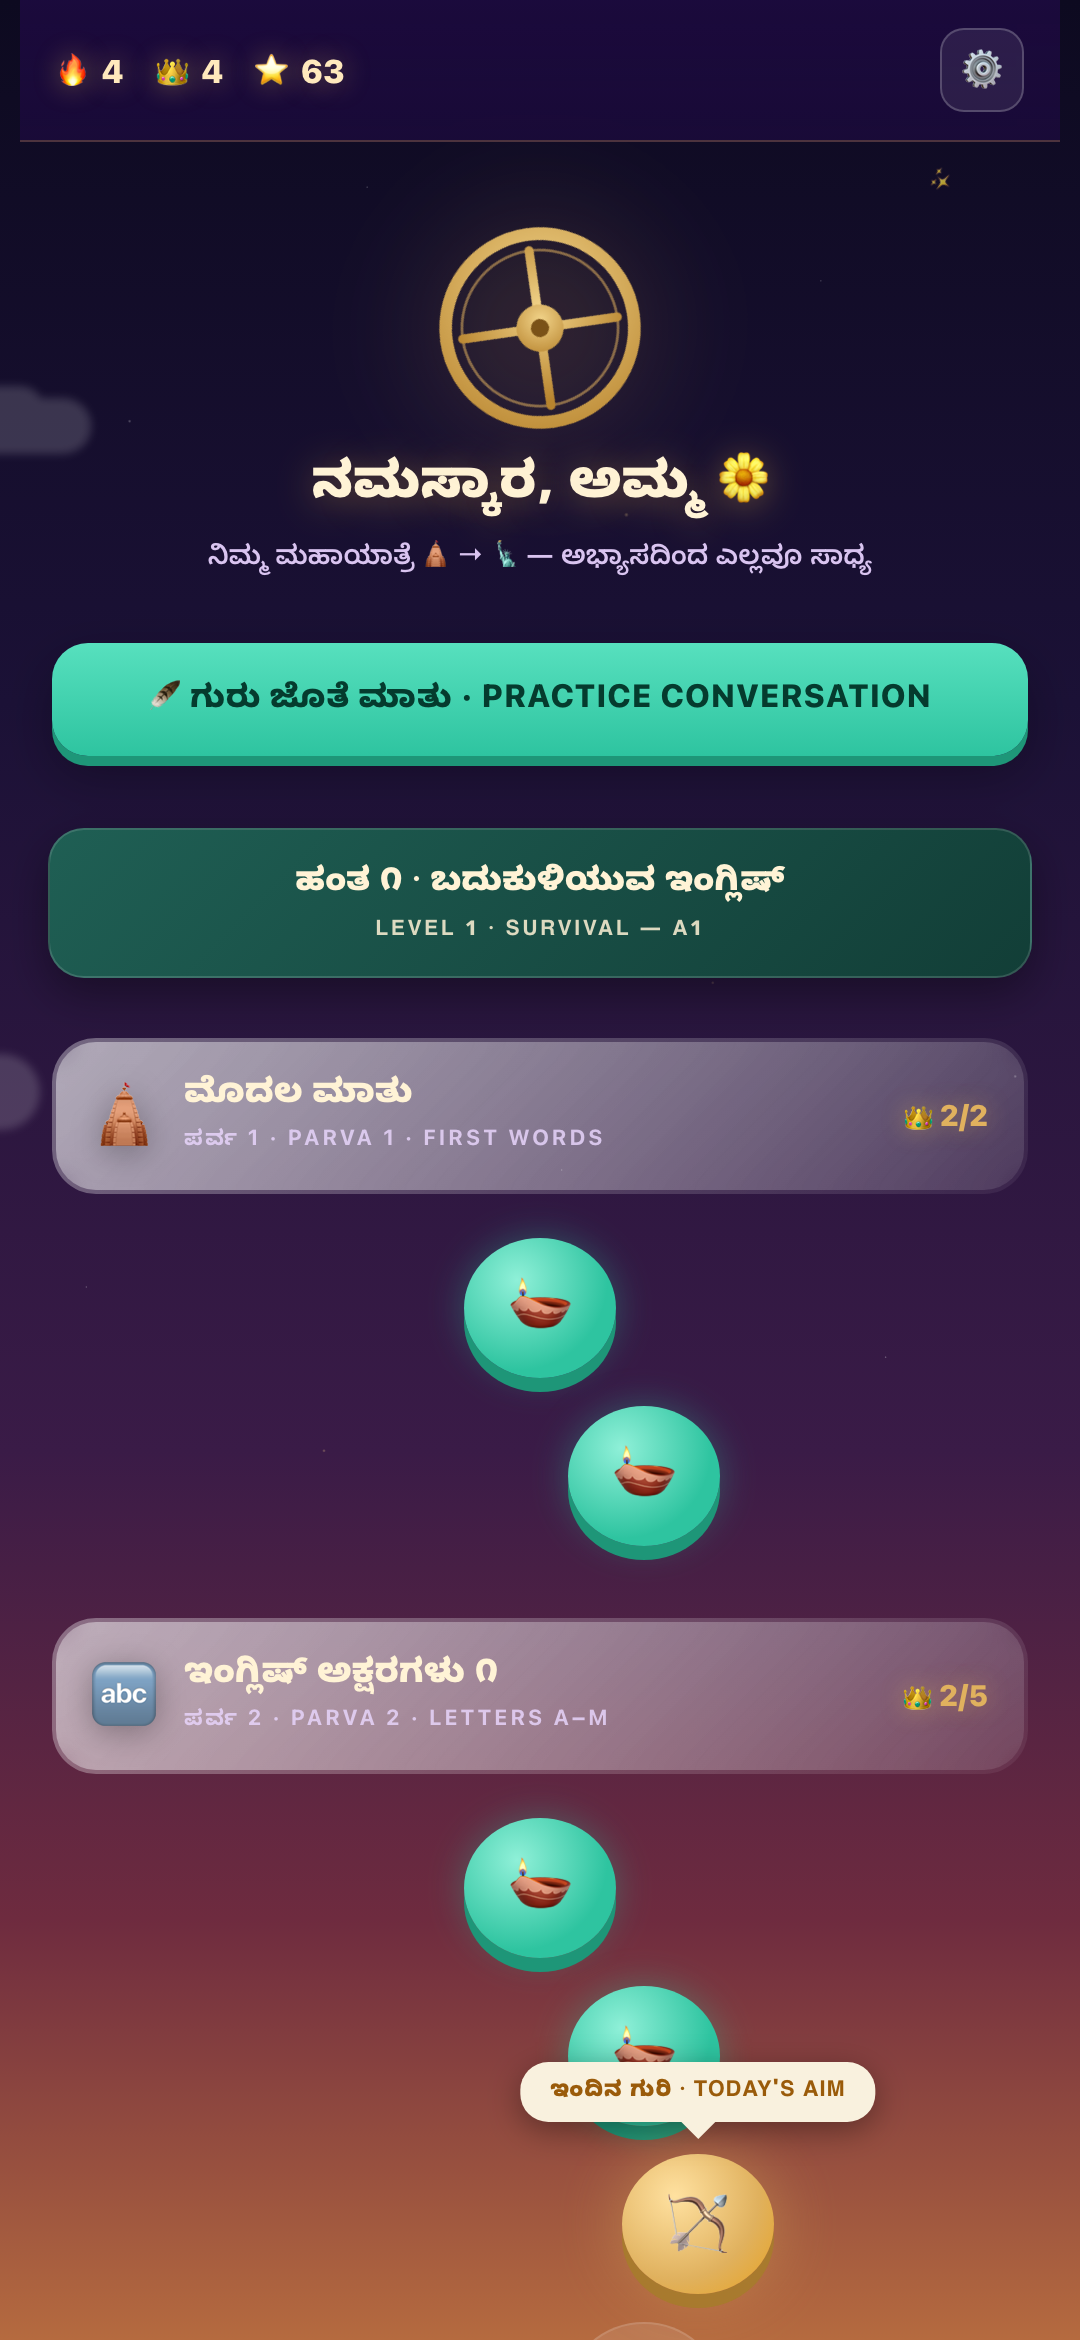
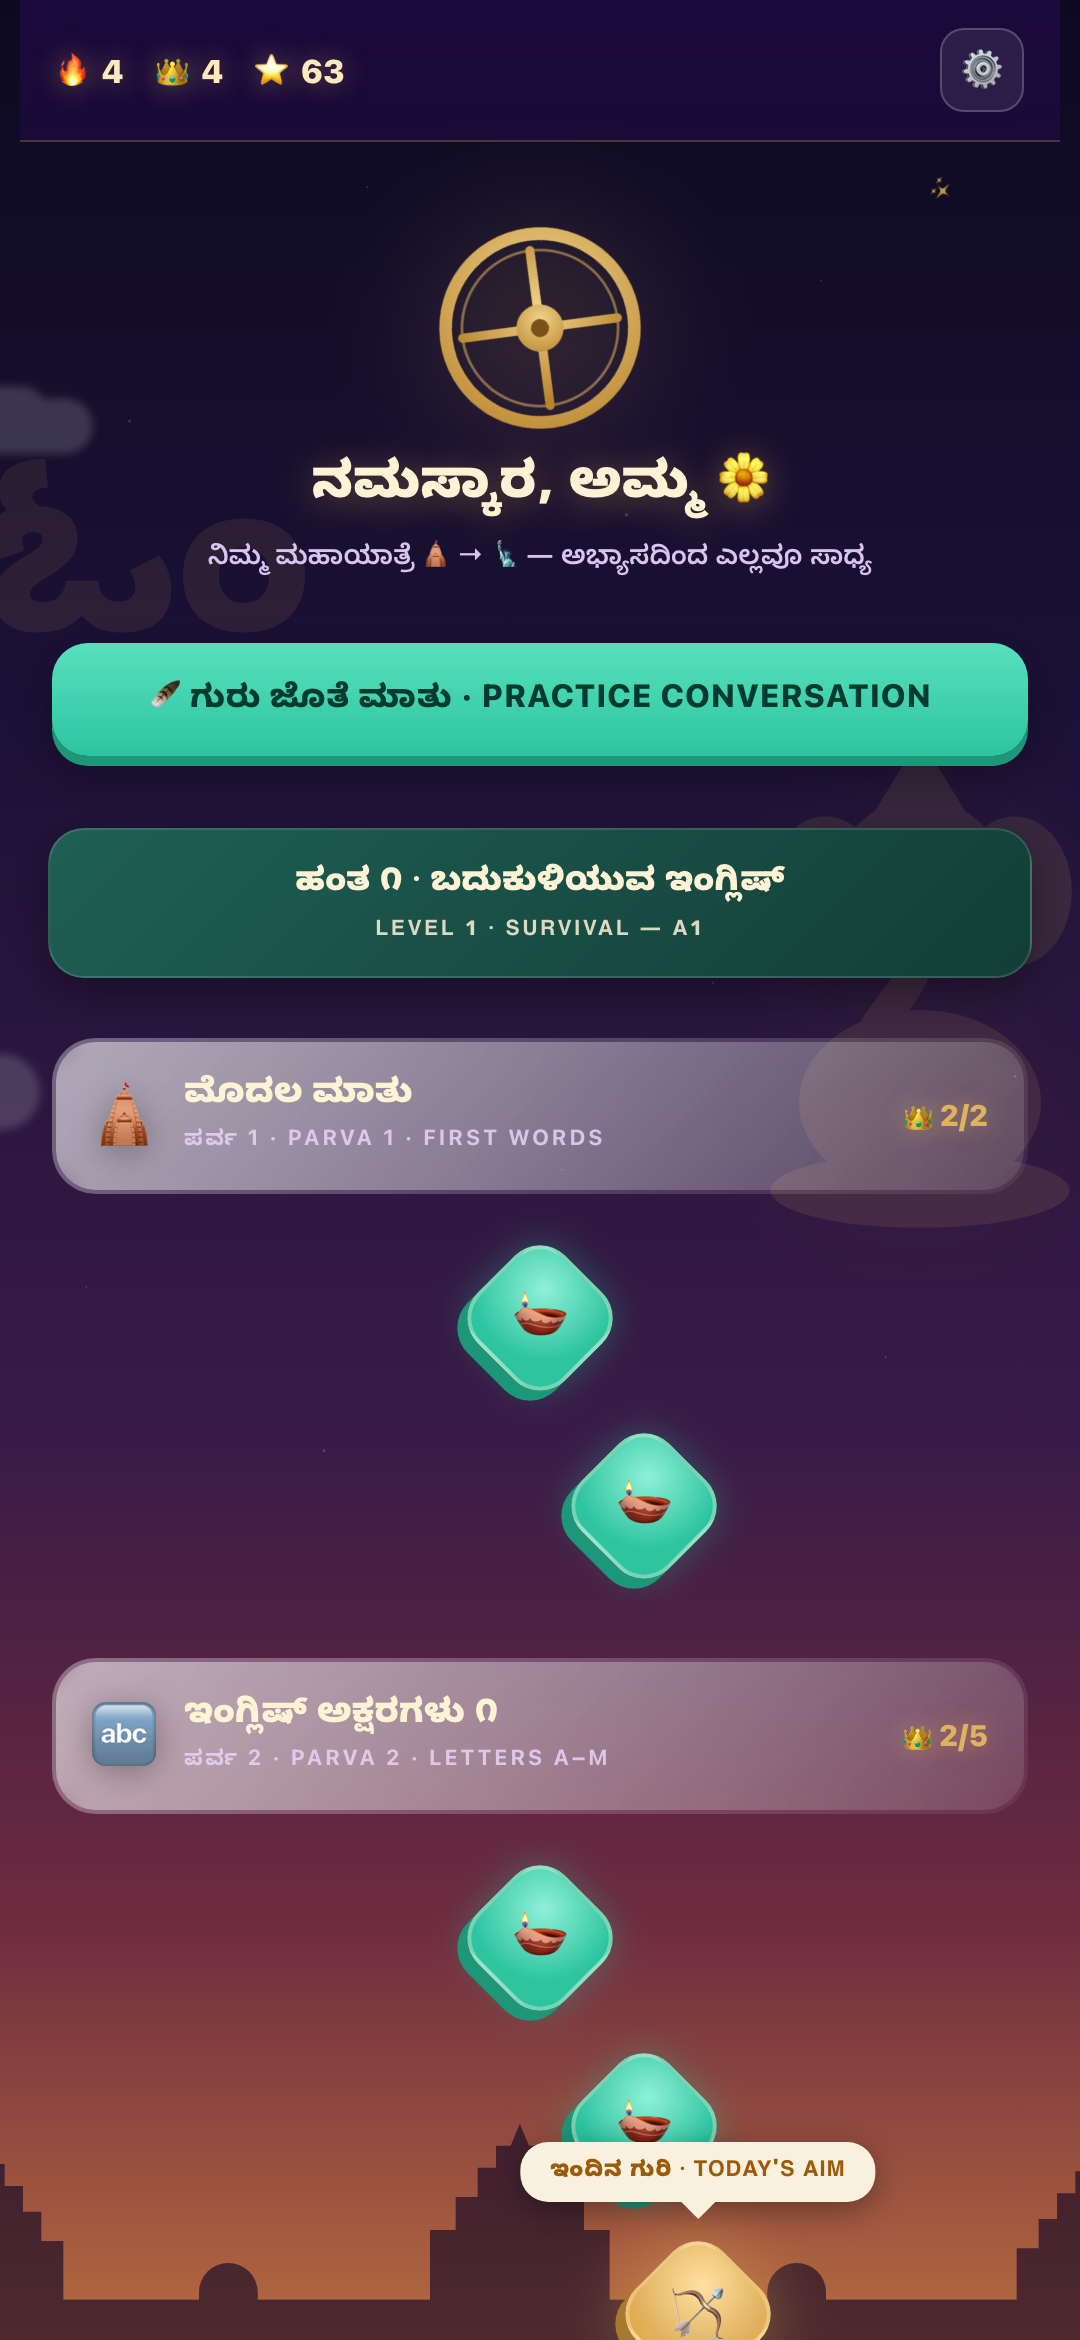
v10: de-Duolingo redesign — temple-tile diamond lesson medallions; sacred background art (ಓಂ, Ganesha silhouette, gopuram skyline); refreshed store map screenshot

Changed region(s): [[0.0, 0.5303, 1.0, 1.0]]

diff --git a/index.html b/index.html
@@ -66,6 +66,9 @@
     0%{transform:translateY(-4vh) rotate(0deg)}
     100%{transform:translateY(108vh) rotate(340deg)}
   }
+  .bg-om{position:fixed;left:-16px;top:17%;width:170px;opacity:.09;z-index:0;pointer-events:none}
+  .bg-ganesha{position:fixed;right:-30px;top:30%;width:220px;opacity:.12;z-index:0;pointer-events:none;filter:drop-shadow(0 0 30px rgba(224,177,94,.25))}
+  .bg-gopuram{position:fixed;bottom:0;left:0;width:100%;height:110px;opacity:.65;z-index:0;pointer-events:none}
   @media (prefers-reduced-motion:reduce){
     .stars,.stars2,.petal,.cloud,.node .bubble,.mascot{animation:none!important}
     *{transition:none!important}
@@ -114,13 +117,15 @@
 
   .nodes{display:flex;flex-direction:column;align-items:center;gap:14px;padding:18px 0 6px;position:relative}
   .node{position:relative;display:flex;flex-direction:column;align-items:center}
-  .node .bubble{width:76px;height:70px;border-radius:50%;display:grid;place-items:center;font-size:1.9rem;border:none;color:#fff;position:relative}
+  .node .bubble{width:62px;height:62px;border-radius:18px;transform:rotate(45deg);display:grid;place-items:center;
+    font-size:1.65rem;border:2px solid rgba(255,243,214,.35);color:#fff;position:relative;margin:9px}
+  .node .bubble .ico{transform:rotate(-45deg);display:block}
   .node.active .bubble{background:radial-gradient(circle at 35% 30%,#FFE1A0,var(--gold) 60%,#E8A21F);
     box-shadow:0 7px 0 var(--gold-d),0 0 34px var(--gold-glow);animation:lantern 2.2s ease-in-out infinite}
   @keyframes lantern{0%,100%{box-shadow:0 7px 0 var(--gold-d),0 0 22px var(--gold-glow)}50%{box-shadow:0 7px 0 var(--gold-d),0 0 44px var(--gold-glow)}}
   .node.done .bubble{background:radial-gradient(circle at 35% 30%,#8FF0D8,var(--jade) 65%);box-shadow:0 7px 0 var(--jade-d),0 0 18px rgba(46,196,160,.35)}
   .node.locked .bubble{background:rgba(255,255,255,.1);box-shadow:0 7px 0 rgba(0,0,0,.28);color:rgba(255,255,255,.4);border:1px solid rgba(255,255,255,.12)}
-  .node .bubble:active{transform:translateY(4px)}
+  .node .bubble:active{transform:rotate(45deg) translateY(4px)}
   .nodes .node:nth-child(6n+2){margin-left:104px}
   .nodes .node:nth-child(6n+3){margin-left:158px}
   .nodes .node:nth-child(6n+4){margin-left:104px}
@@ -264,6 +269,31 @@
 <div class="cloud c1"><b></b><b></b><b></b></div>
 <div class="cloud c2"><b></b><b></b><b></b></div>
 <span class="petal">🌼</span><span class="petal">🌸</span><span class="petal">🌼</span><span class="petal">✨</span>
+
+<svg class="bg-om" viewBox="0 0 220 200" aria-hidden="true"><text x="10" y="150" font-size="140" font-weight="800" fill="#E0B15E">ಓಂ</text></svg>
+
+<svg class="bg-ganesha" viewBox="0 0 200 250" aria-hidden="true">
+  <g fill="#E0B15E">
+    <path d="M78,52 L100,16 L122,52 Z"/>
+    <ellipse cx="57" cy="86" rx="26" ry="34"/>
+    <ellipse cx="143" cy="86" rx="26" ry="34"/>
+    <circle cx="100" cy="84" r="40"/>
+    <path d="M100,112 C95,138 76,142 78,160 C80,176 100,176 103,163 C105,154 96,152 94,158" fill="none" stroke="#E0B15E" stroke-width="15" stroke-linecap="round"/>
+    <ellipse cx="100" cy="182" rx="55" ry="42"/>
+    <ellipse cx="100" cy="222" rx="68" ry="17"/>
+  </g>
+</svg>
+
+<svg class="bg-gopuram" viewBox="0 0 800 120" preserveAspectRatio="xMidYMax slice" aria-hidden="true">
+  <g fill="#140825">
+    <path d="M40,120 V66 h12 V50 h10 V36 h10 V24 h8 V14 h6 l4,-10 4,10 h6 V24 h8 V36 h10 V50 h10 V66 h12 V120 Z"/>
+    <path d="M340,120 V60 h14 V42 h12 V26 h10 V14 h8 l5,-12 5,12 h8 V26 h10 V42 h12 V60 h14 V120 Z"/>
+    <path d="M660,120 V70 h12 V54 h10 V40 h10 V28 h8 V18 h6 l4,-10 4,10 h6 V28 h8 V40 h10 V54 h10 V70 h12 V120 Z"/>
+    <rect x="0" y="98" width="800" height="22"/>
+    <circle cx="230" cy="94" r="16"/><rect x="214" y="94" width="32" height="26"/>
+    <circle cx="540" cy="94" r="16"/><rect x="524" y="94" width="32" height="26"/>
+  </g>
+</svg>
 
 <div class="app">
   <div class="hud">
@@ -855,7 +885,7 @@
         var ico=isDone?"🪔":(unlocked?"🏹":"🔒");
         var pop=(unlocked&&!isDone)?'<div class="startpop kn">ಇಂದಿನ ಗುರಿ · TODAY&#39;S AIM</div>':'';
         html+='<div class="node '+cls+'" data-key="'+l.key+'" data-lock="'+(unlocked?0:1)+'">'+
-          pop+'<button class="bubble" aria-label="Lesson">'+ico+'</button></div>';
+          pop+'<button class="bubble" aria-label="Lesson"><span class="ico">'+ico+'</span></button></div>';
       });
       html+='</div>';
     });

diff --git a/sw.js b/sw.js
@@ -1,5 +1,5 @@
 /* Janani — offline cache */
-var CACHE = "janani-v5";
+var CACHE = "janani-v6";
 var ASSETS = ["./", "./index.html", "./manifest.json", "./icon-192.png", "./icon-512.png"];
 
 self.addEventListener("install", function (e) {